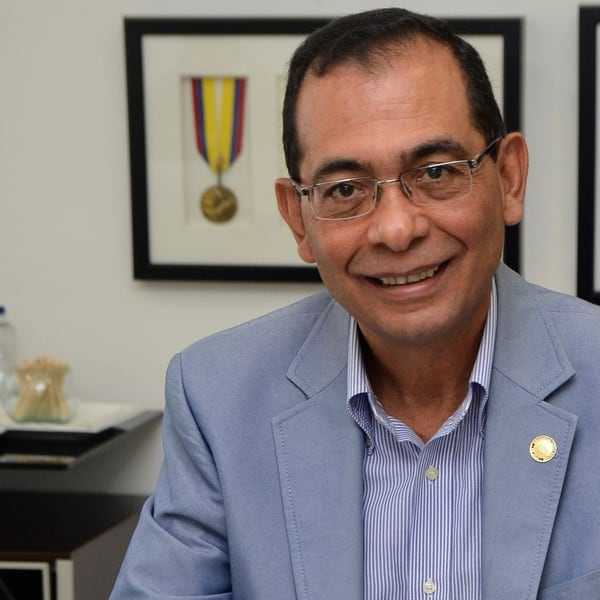
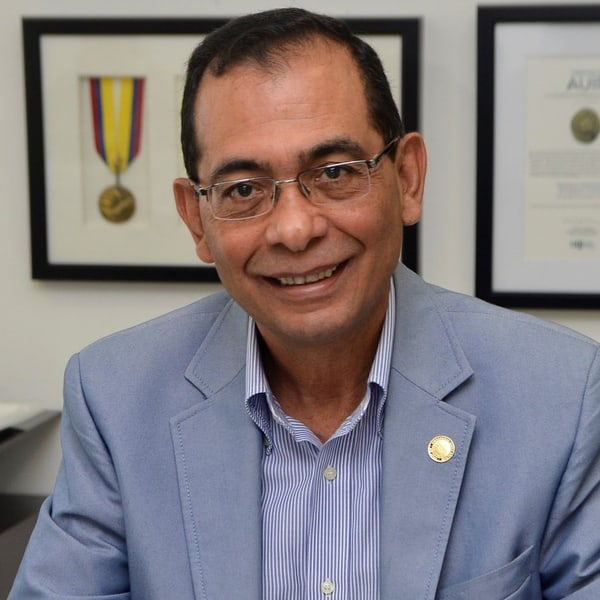
feat: encuadre tipo cédula para las fotos del consejo directivo

diff --git a/src/data/sobre.ts b/src/data/sobre.ts
@@ -290,7 +290,7 @@ const B = (name: string, role: string, company: string, logo?: string): BoardMem
   company,
   /** Logo de la empresa (probarranquilla.org): public/assets/sobre/consejo/logos/ */
   logo: logo && `/assets/sobre/consejo/logos/${logo}.png`,
-  photo: A(`consejo/${name.normalize('NFD').replace(/[̀-ͯ]/g, '').toLowerCase().replace(/[^a-z0-9]+/g, '-')}.jpg?v=2`, `Retrato de ${name}`, { position: '50% 25%' }),
+  photo: A(`consejo/${name.normalize('NFD').replace(/[̀-ͯ]/g, '').toLowerCase().replace(/[^a-z0-9]+/g, '-')}.jpg?v=3`, `Retrato de ${name}`, { position: '50% 25%' }),
 });
 
 export const board = {
